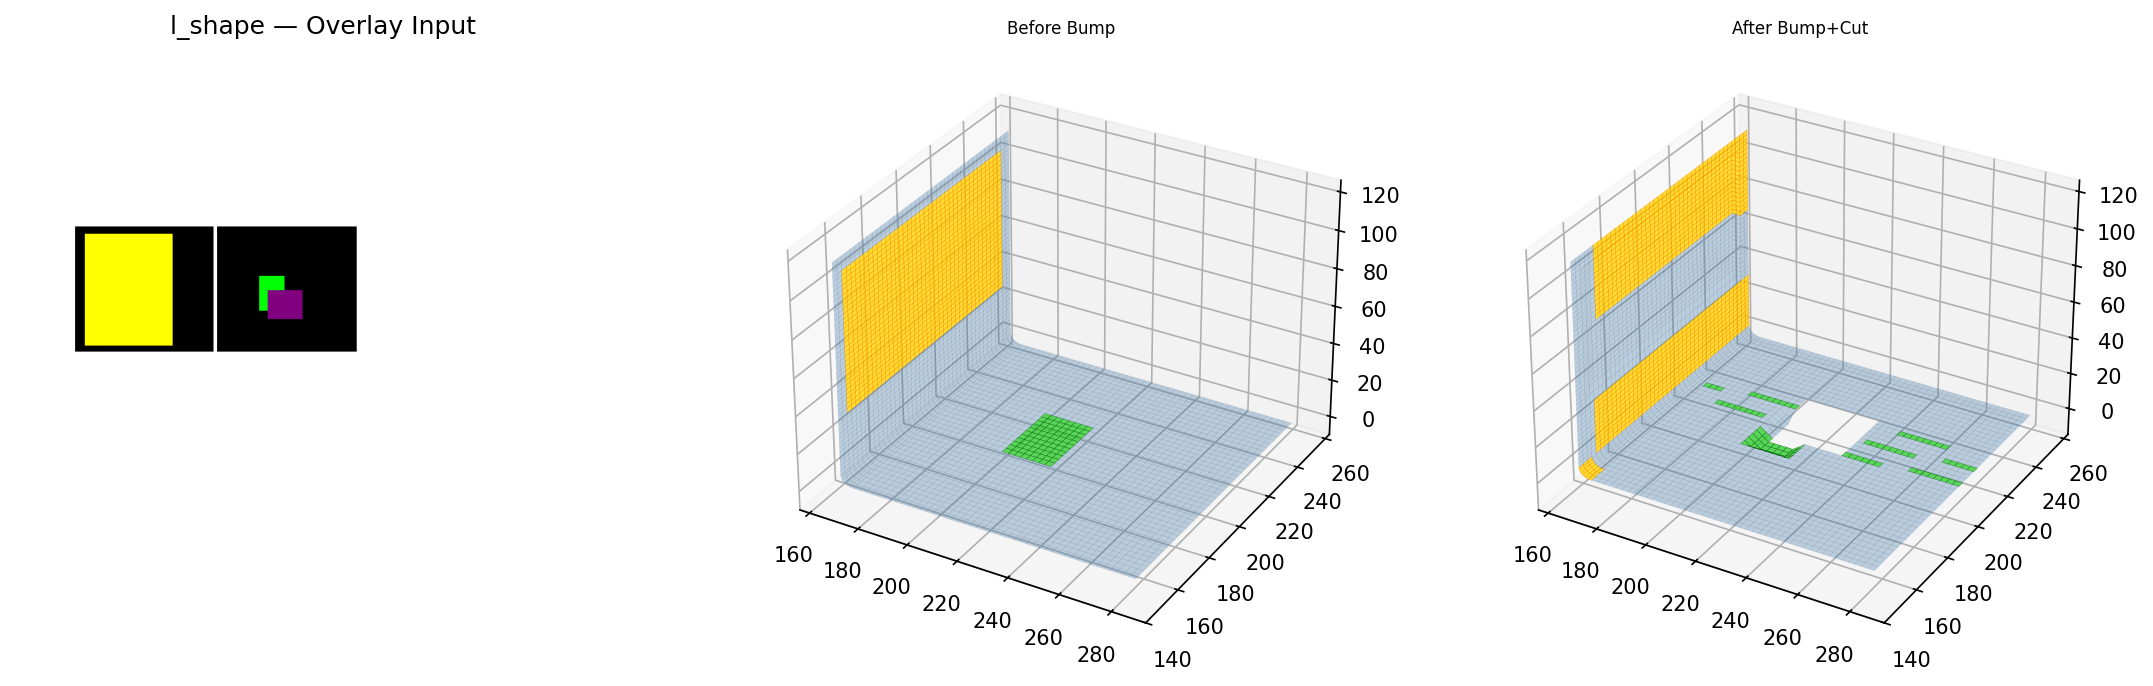
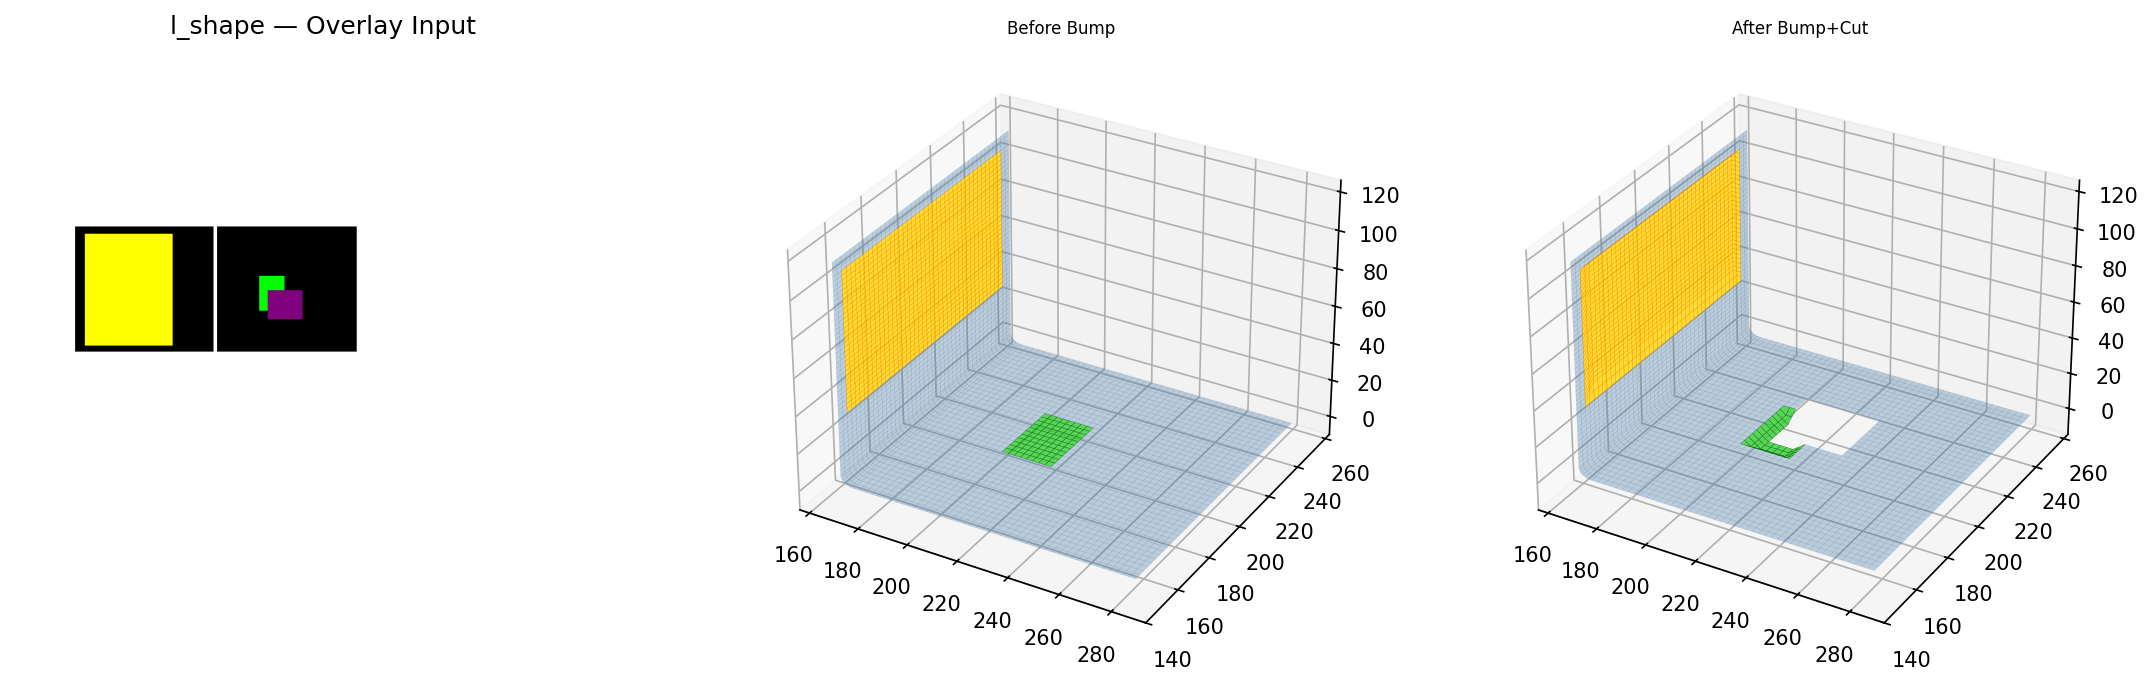
Phase 6: fix post-cut label alignment — 2026-04-22 23:04 KST
After-plot now uses filtered labels from BumpResult so colors
match post-cut element indices correctly.

diff --git a/README.md b/README.md
@@ -48,7 +48,7 @@ Per-element binary mask via inverse 4x4 transform → 2D pixel lookup. Gold = ye
 ### Cross: 2D Yellow Input → 3D Labels
 ![phase5_5_cross](phase5_5_cross.png)
 
-## Phase 6: Bump & Cut (2026-04-22 22:57 KST)
+## Phase 6: Bump & Cut (2026-04-22 23:04 KST)
 Yellow = +z bump, Green = -z bump (literal z-axis, pre-fold direction).
 Purple = hole cut (just delete overlapping elements, nothing else).
 Smoothstep ramp, bump_height = ramp_distance = 2×mean_edge_length.
